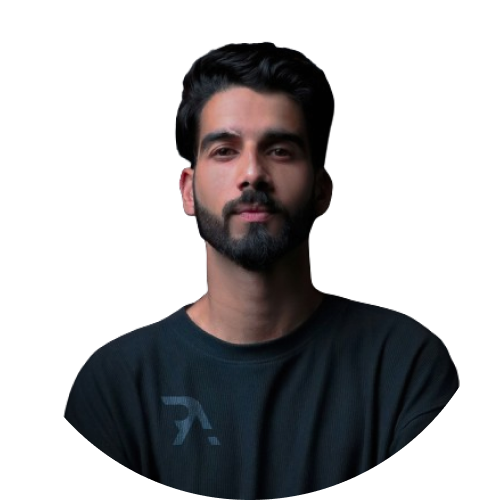
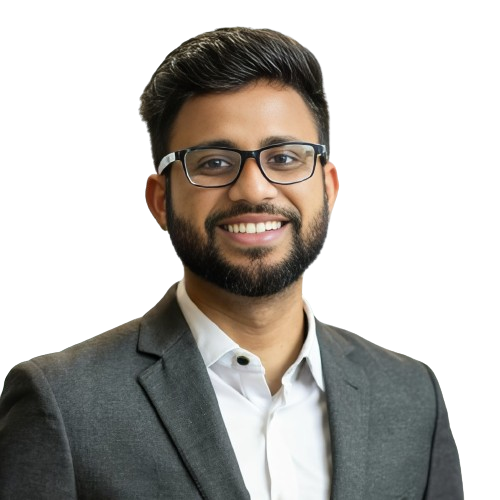
updating project, image, and onthers

diff --git a/app/projects/page.jsx b/app/projects/page.jsx
@@ -23,41 +23,41 @@ const projects = [
     name: "Online Support",
     stack: [
       { name: "React" },
+      { name: "Typescript" },
       { name: "Redux" },
-      { name: "Tailwind css" },
-      { name: "AOS" },
+      { name: "Tailwind" },
+      { name: "JWT" },
+      { name: "Express" },
     ],
     description:
-      "This is a charity website user can donate cloths, money and also anyone can join as a volunteer to support the poor kid's.",
+      "This is a charity website user can donate cloths, money and also anyone can join as a volunteer to support the poor kid's. User authentication build with JWT.",
     live: "https://preeminent-treacle-57fedb.netlify.app",
-    image: "/assets/work/thumb1.jpg",
+    image: "/assets/work/thumb1.JPG",
     github: "https://github.com/AhsanPhero2022/cloth-donation-client",
   },
   {
     num: "02",
-    category: "Full stack website",
-    title: "E-commerce website",
+    category: "Pure JavaScript App",
+    title: "Online Quiz",
     name: "online baby care store",
-    stack: [
-      { name: "Next.js" },
-      { name: "Typescript" },
-      { name: "Tailwind css" },
-    ],
+    stack: [{ name: "Javascript" }, { name: "Tailwind css" }],
     description:
       "User can buy products for his Baby, there is authorized all products.",
-    live: "https://baby-care-store-next-js-client-dun.vercel.app/",
-    image: "/assets/work/thumb2.jpg",
-    github: "https://github.com/AhsanPhero2022/babyCareStore-Next.js-client",
+    live: "https://quiz-app-purejs.netlify.app/",
+    image: "/assets/work/thumb2.JPG",
+    github:
+      "https://github.com/AhsanPhero2022/Quiz-App-Project?tab=readme-ov-file",
   },
   {
     num: "03",
-    category: "Frontend",
+    category: "Full Stack Project",
     title: "Best chef in USA",
     name: "USA chef",
     stack: [{ name: "React" }, { name: "Bootstrap" }],
-    description: "This is a chef review website you can see  the chef details.",
+    description:
+      "This is a chef review website you can see  the chef details. User can login and register the authentication build in firebase. All API calls from mongodb database",
     live: "https://assignment-10-d44c0.web.app/",
-    image: "/assets/work/thumb3.jpg",
+    image: "/assets/work/thumb3.JPG",
     github: "https://github.com/AhsanPhero2022/USA-chef-project",
   },
 ];
@@ -90,10 +90,13 @@ const Work = () => {
             <h2 className="text-[42px] font-bold leading-none text-white group-hover:text-accent transition-all duration-500 capitalize">
               {project.category}
             </h2>
+            <h2 className="text-[24px] font-semibold leading-none text-white group-hover:text-accent transition-all duration-500 capitalize">
+              {project.title}
+            </h2>
             {/* project description */}
             <p className="text-white/60">{project.description}</p>
             {/* stack */}
-            <ul className="flex gap-4">
+            <ul className="flex gap-4  ">
               {project.stack.map((item, index) => {
                 return (
                   <li key={index} className="text-accent text-xl">
@@ -163,7 +166,7 @@ const Work = () => {
 
               <WorkSliderBtns
                 containerStyles="flex gap-2 absolute right-0 bottom-[calc(50%_-_22px)] xl:bottom-0 z-20 w-full justify-between xl:w-max xl:justify-none"
-                btnStyles="bg-accent hover:bg-accent-hover text-primary text-[22px] w-[44px] h-[44px] flex justify-center items-center transition-all"
+                btnStyles="bg-accent hover:bg-accent-hover text-primary text-[22px] w-[44px] h-[44px] flex justify-center items-center transition-all hover:bg-white text-black"
               />
             </Swiper>
           </div>

diff --git a/components/Articles.jsx b/components/Articles.jsx
@@ -4,7 +4,7 @@ import React from "react";
 const Articles = () => {
   return (
     <section className="container">
-      <div className=" shadow-md bg-primary px-6 pb-6">
+      <div className=" shadow-md bg-primary px-2 lg:px-6 pb-6">
         <div className="my-12">
           <h1 className="p-4 text-3xl text-accent font-semibold">
             My Articles

diff --git a/app/contact/page.jsx b/app/contact/page.jsx
@@ -88,7 +88,7 @@ const Contact = () => {
                 className="h-200px"
                 placeholder="Type your message here."
               />
-              <Button size="md" className="max-w-40">
+              <Button size="md" className="max-w-40 hover:bg-white text-black">
                 Send message
               </Button>
             </form>

diff --git a/components/Header.jsx b/components/Header.jsx
@@ -17,7 +17,7 @@ const Header = () => {
         <div className="hidden lg:flex xl:flex items-center gap-8">
           <Nav />
           <Link href="/contact">
-            <Button>Hire me</Button>
+            <Button className="hover:bg-white text-black">Hire me</Button>
           </Link>
         </div>
         <div className="xl:hidden lg:hidden">

diff --git a/components/StairTransition.jsx b/components/StairTransition.jsx
@@ -13,7 +13,7 @@ const StairTransition = () => {
           <Stairs />
         </div>
         <motion.div
-          className="hs-screen w-screen fixed bg-primary top-0 pointer-events-none"
+          className="hs-screen w-screen  bg-primary top-5 pointer-events-none"
           initial={{ opacity: 1 }}
           animate={{
             opacity: 0,

diff --git a/components/Photo.jsx b/components/Photo.jsx
@@ -23,7 +23,7 @@ const Photo = () => {
           className="absolute w-[298px] h-[298px] xl:w-[498px] xl:h-[498px] mix-blend-lighten"
         >
           <Image
-            src="/assets/photo.jpg"
+            src="/assets/photo.png"
             priority
             quality={100}
             fill
